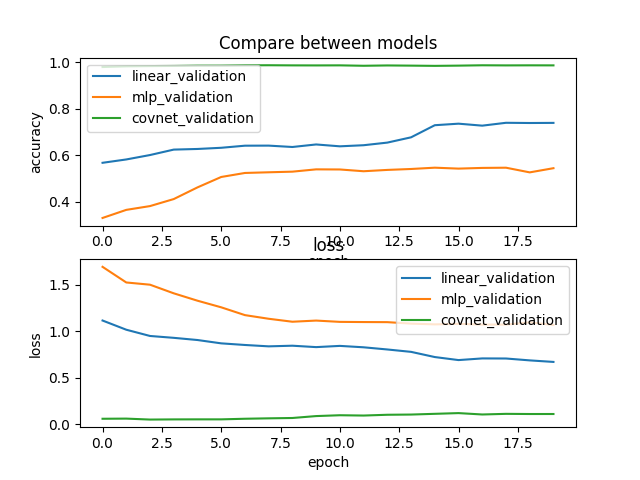
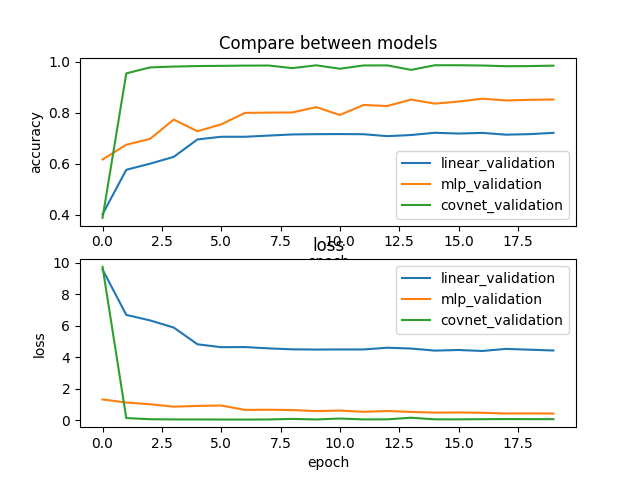
Implemnting autoencoder fix compare models

diff --git a/covnet/mnist_learn.py b/covnet/mnist_learn.py
@@ -1,12 +1,15 @@
-from keras.datasets import mnist
-from keras.models import Sequential
-from keras.layers import Dense, Activation, Conv2D, MaxPooling2D, Flatten, Dropout
-from keras.optimizers import SGD, Adadelta
-from keras.losses import categorical_crossentropy
-from keras import utils as keras_utils
-import numpy as np
-from matplotlib import pyplot as plt
 import pickle
+
+import numpy as np
+from keras import utils as keras_utils
+from keras.datasets import mnist
+from keras.layers import Dense, Activation, Conv2D, MaxPooling2D, Flatten, Reshape, Dropout, Input, UpSampling2D
+from keras.losses import categorical_crossentropy
+from keras.models import Sequential, Model, load_model
+from keras.optimizers import SGD, Adadelta, Adam
+from matplotlib import pyplot as plt
+from sklearn.decomposition import PCA
+from sklearn.preprocessing import scale
 
 
 #
@@ -25,7 +28,8 @@ def plot_models(model_logs, model_names, title, only_val=True):
 
     plt.figure()
     plt.subplot(2, 1, 1)
-    for log in model_logs:
+    for i in range(len(model_logs)):
+        log = model_logs[i]
         if only_val == False:
             plt.plot(log.history['acc'])
         plt.plot(log.history['val_acc'])
@@ -36,7 +40,8 @@ def plot_models(model_logs, model_names, title, only_val=True):
     plt.title(title)
 
     plt.subplot(2, 1, 2)
-    for log in model_logs:
+    for i in range(len(model_logs)):
+        log = model_logs[i]
         if only_val == False:
             plt.plot(log.history['loss'])
         plt.plot(log.history['val_loss'])
@@ -45,37 +50,38 @@ def plot_models(model_logs, model_names, title, only_val=True):
     plt.xlabel('epoch')
     plt.legend(legend)
     # plt.title(title + " loss")
+    plt.savefig(("plots2/" + str(title) + str(model_names[i])).replace(' ', '_').replace("0.", ""))
     plt.tight_layout()
-    plt.show()
+    # plt.show()
 
 
-def plot_model(model_log, model_name):
-    plt.figure()
-    plt.subplot(2, 1, 1)
-    plt.plot(model_log.history['acc'])
-    plt.plot(model_log.history['val_acc'])
-    plt.title(model_name + ' accuracy')
-    plt.ylabel('accuracy')
-    plt.xlabel('epoch')
-    plt.legend(['train', 'test'])
+# def plot_model(model_log, model_name):
+#     plt.figure()
+#     plt.subplot(2, 1, 1)
+#     plt.plot(model_log.history['acc'])
+#     plt.plot(model_log.history['val_acc'])
+#     plt.title(model_name + ' accuracy')
+#     plt.ylabel('accuracy')
+#     plt.xlabel('epoch')
+#     plt.legend(['train', 'test'])
+#
+#     plt.subplot(2, 1, 2)
+#     plt.plot(model_log.history['loss'])
+#     plt.plot(model_log.history['val_loss'])
+#     plt.title(model_name + 'loss')
+#     plt.ylabel('loss')
+#     plt.xlabel('epoch')
+#     plt.legend(['train', 'test'], loc='upper right')
+#     plt.tight_layout()
+#     plt.show()
 
-    plt.subplot(2, 1, 2)
-    plt.plot(model_log.history['loss'])
-    plt.plot(model_log.history['val_loss'])
-    plt.title(model_name + 'loss')
-    plt.ylabel('loss')
-    plt.xlabel('epoch')
-    plt.legend(['train', 'test'], loc='upper right')
-    plt.tight_layout()
-    plt.show()
 
-
-def train_model(x_train, y_train, x_test, y_test, model, opt=SGD()):
+def train_model(x_train, y_train, x_test, y_test, model, opt=Adadelta()):
     model.compile(optimizer=opt,
                   loss=categorical_crossentropy,
                   metrics=['accuracy'])
 
-    model_log = model.fit(x_train, y_train, epochs=10, batch_size=32, verbose=2,
+    model_log = model.fit(x_train, y_train, epochs=20, batch_size=1024, verbose=2,
                           validation_data=(x_test, y_test))
 
     # plot_model(model_log, model_name)
@@ -86,34 +92,66 @@ def flatten_x(X):
     return X.reshape(X.shape[0], X.shape[1] * X.shape[2])
 
 
-def train_multi_layer_linear_model(x_train, y_train, x_test, y_test, num_classes):
+# def multi_train_multi_layer_linear_model(x_train, y_train, x_test, y_test, classes):
+#     num_classes = len(classes)
+#     x_train = flatten_x(x_train)
+#     x_test = flatten_x(x_test)
+#
+#     models = [
+#         Sequential(
+#             [Dense(256, input_shape=(x_train.shape[1],)), Activation('softmax'),
+#              Dense(16), Activation('softmax'),
+#              Dense(num_classes), Activation('softmax')]),
+#
+#         Sequential(
+#             [Dense(256, input_shape=(x_train.shape[1],)), Activation('softmax'),
+#              Dense(32), Activation('softmax'),
+#              Dense(num_classes), Activation('softmax')]),
+#
+#         # .49 after 20
+#         Sequential(
+#             [Dense(256, input_shape=(x_train.shape[1],)), Activation('softmax'),
+#              Dense(64), Activation('softmax'),
+#              Dense(num_classes), Activation('softmax')]),
+#
+#         # .466 after 20 epochs
+#         Sequential(
+#             [Dense(256, input_shape=(x_train.shape[1],)), Activation('softmax'),
+#              Dense(64), Activation('softmax'),
+#              Dense(64), Activation('softmax'),
+#              Dense(64), Activation('softmax'),
+#              Dense(num_classes), Activation('softmax')]),
+#     ]
+#
+#     logs = []
+#     for i in range(len(models)):
+#         _, log = train_model(x_train, y_train, x_test, y_test, models[i], opt=SGD(lr=0.001))
+#         logs.append(log)
+#
+#         plot_models([log], ["mlp num: " + str(i)], 'Compare between mlp models ' + str(i), False)
+
+
+def train_multi_layer_linear_model(x_train, y_train, x_test, y_test, num_classes, opt):
+    x_train = flatten_x(x_train)
+    x_test = flatten_x(x_test)
+    model = Sequential([Dense(256, input_shape=(x_train.shape[1],)), Activation('relu'),
+                        Dense(16), Activation('relu'),
+                        Dense(num_classes), Activation('softmax')])
+
+    return train_model(x_train, y_train, x_test, y_test, model, opt=opt)
+
+
+def train_linear_model(x_train, y_train, x_test, y_test, num_classes, opt):
     x_train = flatten_x(x_train)
     x_test = flatten_x(x_test)
     model = Sequential([
-        Dense(256, input_shape=(x_train.shape[1],)),
-        Activation('softmax'),
-        # Dense(64),
+        # Dense(256, input_shape=(x_train.shape[1],)),
         # Activation('softmax'),
-        Dense(256),
-        Activation('softmax'),
         Dense(num_classes),
         Activation('softmax'),
     ])
 
-    return train_model(x_train, y_train, x_test, y_test, model)
-
-
-def train_linear_model(x_train, y_train, x_test, y_test, num_classes):
-    x_train = flatten_x(x_train)
-    x_test = flatten_x(x_test)
-    model = Sequential([
-        Dense(256, input_shape=(x_train.shape[1],)),
-        Activation('softmax'),
-        Dense(num_classes),
-        Activation('softmax'),
-    ])
-
-    return train_model(x_train, y_train, x_test, y_test, model)
+    return train_model(x_train, y_train, x_test, y_test, model, opt=opt)
 
 
 def train_covnet(x_train, y_train, x_test, y_test, num_classes, opt=SGD(lr=0.1)):
@@ -132,58 +170,156 @@ def train_covnet(x_train, y_train, x_test, y_test, num_classes, opt=SGD(lr=0.1))
 
 
 def compare_models(x_train, y_train, x_test, y_test, classes, from_pickle=True):
+    opt = Adadelta()
     if from_pickle:
         models = pickle.load(open("models.pickle", "rb"))
         linear_model, linear_log = (models['linear']['model'], models['linear']['log'])
         mlp_model, mlp_log = (models['mlp']['model'], models['mlp']['log'])
         covnet_model, covnet_log = (models['covnet']['model'], models['covnet']['log'])
     else:
-        # linear_model, linear_log = train_linear_model(x_train, y_train, x_test, y_test, len(classes))
-        # mlp_model, mlp_log = train_multi_layer_linear_model(x_train, y_train, x_test, y_test, len(classes))
-        covnet_model, covnet_log = train_covnet(x_train, y_train, x_test, y_test, len(classes), opt=SGD(0.0001))
+        linear_model, linear_log = train_linear_model(x_train, y_train, x_test, y_test, len(classes), opt=opt)
+        mlp_model, mlp_log = train_multi_layer_linear_model(x_train, y_train, x_test, y_test, len(classes), opt=opt)
+        covnet_model, covnet_log = train_covnet(x_train, y_train, x_test, y_test, len(classes), opt=opt)
 
         pickle.dump({'linear': {'log': linear_log, 'model': linear_model},
                      'mlp': {'log': mlp_log, 'model': mlp_log},
                      'covnet': {'log': covnet_log, 'model': covnet_model}
                      }, open("models.pickle", "wb"))
 
-    plot_models([linear_log, mlp_log, covnet_log], ['linear', 'mlp', 'covnet'], 'Compare between models', False)
+    plot_models([linear_log, mlp_log, covnet_log], ['linear', 'mlp', 'covnet'], 'Compare between models', True)
+    # plot_models([linear_log, mlp_log], ['linear', 'mlp'], 'Compare between models', False)
 
 
 def hyper_parameter_covnet(x_train, y_train, x_test, y_test, classes, from_pickle=True):
+    lrs = [10**-10, 10**-5, 10**-3, 10**-2]
+    models = []
+    logs = []
+    legend = []
     if from_pickle:
-        models = pickle.load(open("covnet_hyperparameter.pickle", "rb"))
-        lr1_model, lr1_log = (models['lr1']['model'], models['lr1']['log'])
-        lr01_model, lr01_log = (models['lr01']['model'], models['lr01']['log'])
-        lr001_model, lr001_log = (models['lr001']['model'], models['lr001']['log'])
-        lr0001_model, lr0001_log = (models['lr0001']['model'], models['lr0001']['log'])
-
+        pickle_info = pickle.load(open("covnet_hyperparameter.pickle", "rb"))
+        for k, v in pickle_info.items():
+            legend.append(str(k))
+            logs.append(v['log'])
+            models.append(v['model'])
     else:
-        lr1_model, lr1_log = train_covnet(x_train, y_train, x_test, y_test, len(classes), opt=SGD(0.1))
-        lr01_model, lr01_log = train_covnet(x_train, y_train, x_test, y_test, len(classes), opt=SGD(0.01))
-        lr001_model, lr001_log = train_covnet(x_train, y_train, x_test, y_test, len(classes), opt=SGD(0.001))
-        lr0001_model, lr0001_log = train_covnet(x_train, y_train, x_test, y_test, len(classes), opt=SGD(0.0001))
+        for lr in lrs:
+            model, log = train_covnet(x_train, y_train, x_test, y_test, len(classes), opt=SGD(lr))
+            logs.append(log)
+            models.append(model)
+            legend.append("covnet lr:" + str(lr))
 
-        pickle.dump({'lr1': {'log': lr1_log, 'model': lr1_model},
-                     'lr01': {'log': lr01_log, 'model': lr01_model},
-                     'lr001': {'log': lr001_log, 'model': lr001_model},
-                     'lr0001': {'log': lr0001_log, 'model': lr0001_model}
-                     }, open("models.pickle", "wb"))
+        pickle.dump({str(legend[i]): {'log': logs[i], 'model': models[i]} for i in range(len(legend))},
+                    open("covnet_hyperparameter.pickle", "wb"))
 
-    plot_models([lr1_log, lr01_log, lr001_log, lr0001_log], ['0.1', '0.01', '0.001', '0.0001'],
-                'Covnet hyperparameter - learning rate', True)
+    plot_models(logs, legend, 'Covnet hyperparameter - learning rate', True)
+
+
+def plot_decode_encode(encoder, autoencoder, x_test):
+    num_images = 10
+    random_idx = np.random.randint(len(x_test), size=num_images)
+    random_images = x_test[random_idx, :]
+    encode_img = encoder.predict(random_images)
+    decode_img = autoencoder.predict(random_images)
+
+    plt.figure(figsize=(18, 4))
+
+    for i in range(len(random_images)):
+        # plot original image
+        ax = plt.subplot(3, num_images, i + 1)
+        plt.imshow(random_images[i].reshape(28, 28))
+        plt.gray()
+        ax.get_xaxis().set_visible(False)
+        ax.get_yaxis().set_visible(False)
+
+        # plot encoded image
+        ax = plt.subplot(3, num_images, num_images + i + 1)
+        plt.imshow(encode_img[i].reshape(2, 1))
+        plt.gray()
+        ax.get_xaxis().set_visible(False)
+        ax.get_yaxis().set_visible(False)
+
+        # plot reconstructed image
+        ax = plt.subplot(3, num_images, 2 * num_images + i + 1)
+        plt.imshow(decode_img[i].reshape(28, 28))
+        plt.gray()
+        ax.get_xaxis().set_visible(False)
+        ax.get_yaxis().set_visible(False)
+    plt.show()
+
+
+def pca_loss(x_train, x_test):
+    p = PCA(n_components=2)
+    p.fit(x_train)
+
+    train_reconstruct = p.inverse_transform(p.transform(x_train))
+    test_reconstruct = p.inverse_transform(p.transform(x_test))
+    train_score = ((x_train - train_reconstruct) ** 2).mean()
+    test_score = ((x_test - test_reconstruct) ** 2).mean()
+
+    return train_score, test_score, p
+
+
+def train_autoencoder(x_train, x_test):
+    # x_train = flatten_x(x_train)
+    # x_test = flatten_x(x_test)
+    autoencoder = Sequential()
+    activation = 'relu'
+    autoencoder.add(Dense(512, activation=activation, input_shape=(784,)))
+    autoencoder.add(Dense(128, activation=activation))
+    autoencoder.add(Dense(64, activation=activation))
+    autoencoder.add(Dense(32, activation=activation))
+    autoencoder.add(Dense(2, activation='linear', name="encoded"))
+    autoencoder.add(Dense(32, activation=activation))
+    autoencoder.add(Dense(64, activation=activation))
+    autoencoder.add(Dense(128, activation=activation))
+    autoencoder.add(Dense(512, activation=activation))
+    autoencoder.add(Dense(784, activation=activation))
+    autoencoder.compile(loss='mean_squared_error', optimizer=Adam())
+    log = autoencoder.fit(x_train, x_train, batch_size=512, epochs=20, verbose=1, validation_data=(x_test, x_test))
+    encoder = Model(autoencoder.input, autoencoder.get_layer('encoded').output)
+
+    return log, encoder, autoencoder
+
+
+def autoencoder(x_train, y_train, x_test, y_test):
+    # Normalize the data for the autoencoder (pca needs it)
+    x_train_scaled = scale(flatten_x(x_train))
+    x_test_scaled = scale(flatten_x(x_test))
+    log, encoder, autoencoder = train_autoencoder(x_train_scaled, x_test_scaled)
+    pca_train_loss, pca_test_loss, pca = pca_loss(x_train_scaled, x_test_scaled)
+    print('on train data, pca loss: %.3f, encoder loss: %.3f' % (pca_train_loss, log.history['loss'][-1]))
+    print('on test data, pca loss: %.3f, encoder loss: %.3f' % (pca_test_loss, log.history['val_loss'][-1]))
+
+    # plot
+    idx = np.random.randint(len(x_train) + len(x_test), size=5000)
+    y = np.hstack((y_train, y_test))[idx]
+    x = np.vstack((x_train_scaled, x_test_scaled))[idx, :]
+    pca_embading = pca.transform(x)
+    encoder_embading = encoder.predict(x)
+
+    f, (ax1, ax2) = plt.subplots(2, 1, sharey=True, sharex=True)
+    ax1.scatter(pca_embading[:, 0], pca_embading[:, 1], c=y)
+    ax1.set_title("pca embadings")
+    ax2.scatter(encoder_embading[:, 0], encoder_embading[:, 1], c=y)
+    ax2.set_title("encoder embadings")
+    plt.savefig("plots/autoencoder")
+    plt.show()
 
 
 if __name__ == "__main__":
     (x_train, y_train), (x_test, y_test) = mnist.load_data()
-    compare_models_pickle = False
-    hyperparameter_pickle = False
+    compare_models_pickle = True
+    hyperparameter_pickle = True
     classes = np.unique(y_train)
+
+    # autoencoder(x_train, y_train, x_test, y_test)
+
     y_train = keras_utils.to_categorical(y_train, len(classes))
     y_test = keras_utils.to_categorical(y_test, len(classes))
 
-    # x_train = x_train[:1000]
-    # y_train = y_train[:1000]
+    # plot_decode_encode(load_model("models/encoder.pickle"), load_model("models/autoencoder.pickle"),
+    #                    np.expand_dims(x_test, axis=3))
+    # multi_train_multi_layer_linear_model(x_train, y_train, x_test, y_test, classes)
     # compare_models(x_train, y_train, x_test, y_test, classes, compare_models_pickle)
     hyper_parameter_covnet(x_train, y_train, x_test, y_test, classes, hyperparameter_pickle)
 

diff --git a/covnet/Toy Convnet.py b/covnet/Toy Convnet.py
@@ -202,7 +202,7 @@ def plot_loss(training_log, test_loss, title, only_test=True):
 
         # plt.title(title + " loss")
         plt.tight_layout()
-        plt.savefig("plots/" + fig_title.replace(" ", "_"), )
+        # plt.savefig("plots/" + fig_title.replace(" ", "_"), )
         plt.show()
 
 
@@ -217,8 +217,8 @@ if __name__ == '__main__':
                 1 + np.random.randn(X['test'].shape[0]) * .01)}
         for i in range(len(y))}
 
-    w, training_loss, test_loss = learn_linear(X, Y, 50, 0.6, 500, 0.001)
-    plot_loss(training_loss, test_loss, 'linear model', False)
+    # w, training_loss, test_loss = learn_linear(X, Y, 50, 0.6, 500, 0.001)
+    # plot_loss(training_loss, test_loss, 'linear model', False)
 
-    w, training_loss, test_loss = learn_cnn(X, Y, 50, 0.6, 500, 0.001)
+    w, training_loss, test_loss = learn_cnn(X, Y, 32, 0.5, 500, 0.0001)
     plot_loss(training_loss, test_loss, 'cnn model', False)
